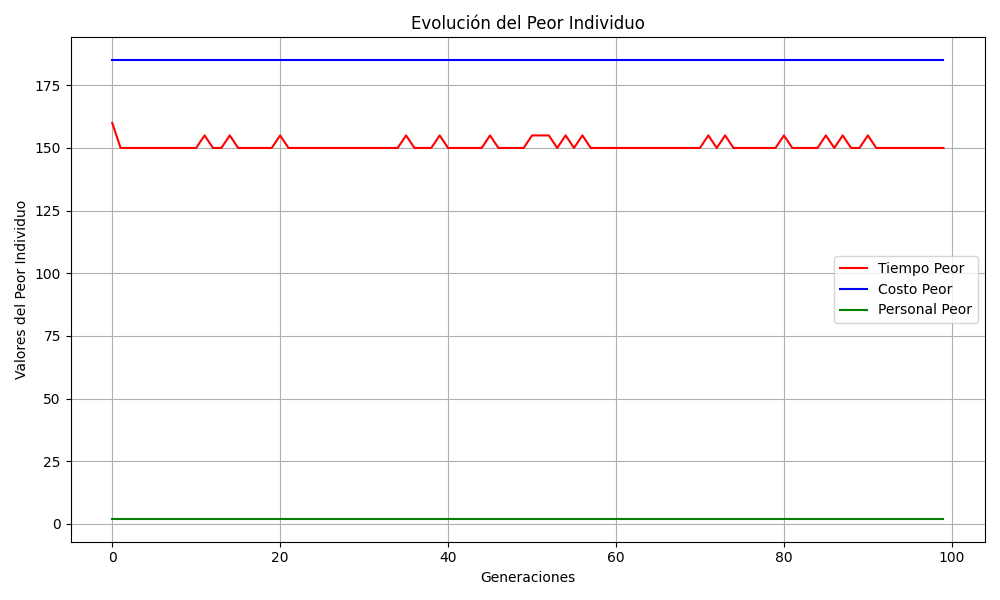
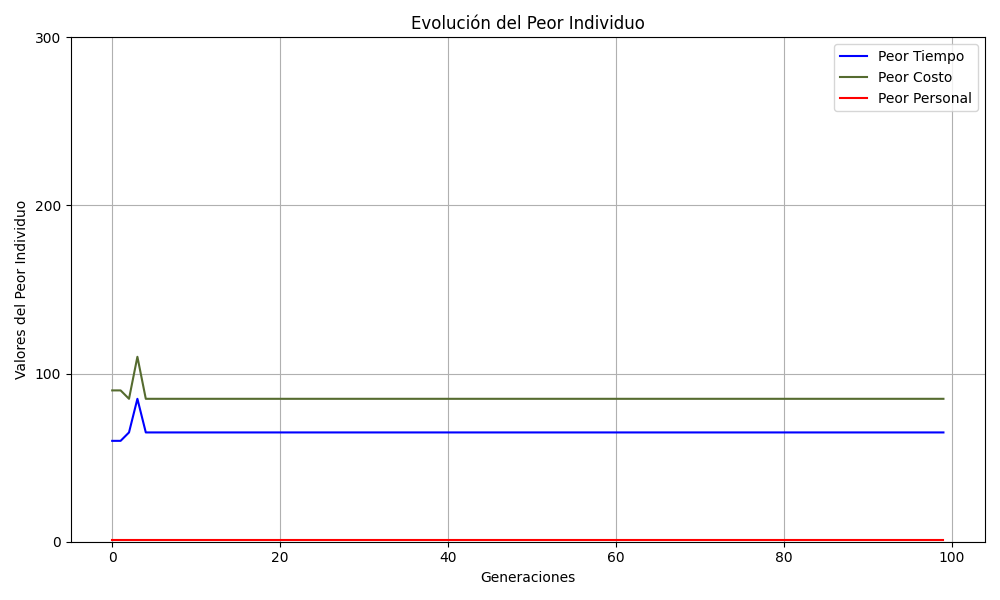
[FIX] the frontend with de graphics

diff --git a/templates/index.html b/templates/index.html
@@ -91,13 +91,19 @@
             </tbody>
         </table>
 
-        <div>
-            <h2 class="thCenter">Evolución del Tiempo</h2>
-            <img id="grafica_tiempos" src="" alt="Gráfica de la Evolución del Tiempo">
-        </div>
-        <div>
-            <h2 class="thCenter">Evolución del Costo</h2>
-            <img id="grafica_costos" src="" alt="Gráfica de la Evolución del Costo">
+        <div class="graficas">
+            <div>
+                <h2 class="tituloGraficas">Evolución del peor empleado</h2>
+                <img id="grafica_peor_individuo" src="" alt="Gráfica del Peor Individuo">
+            </div>
+            <div>
+                <h2 class="tituloGraficas">Evolución de los empleados promedio</h2>
+                <img id="grafica_promedio" src="" alt="Gráfica del Promedio">
+            </div>
+            <div>
+                <h2 class="tituloGraficas">Evolución del mejor empleado</h2>
+                <img id="grafica_mejor_individuo" src="" alt="Gráfica del Mejor Individuo">
+            </div>
         </div>
     </div>
 
@@ -179,8 +185,9 @@
                 document.getElementById('costo_mejor').textContent = data.solucion_mejor.costo_total;
                 document.getElementById('satisfactorio_mejor').textContent = data.solucion_mejor.satisfactorio;
 
-                document.getElementById('grafica_tiempos').src = data.grafica_tiempos_path;
-                document.getElementById('grafica_costos').src = data.grafica_costos_path;
+                document.getElementById('grafica_peor_individuo').src = data.grafica_peor_individuo_path;
+                document.getElementById('grafica_promedio').src = data.grafica_promedio_path;
+                document.getElementById('grafica_mejor_individuo').src = data.grafica_mejor_individuo_path;
             });
         });
     </script>

diff --git a/static/style.css b/static/style.css
@@ -258,3 +258,20 @@ th {
 .align-left {
   text-align: left;
 }
+
+.graficas {
+  display: flex;
+  justify-content: space-around;
+  margin-top: 20px;
+
+}
+.graficas img {
+  width: 100%;
+  height: auto;
+}
+
+.tituloGraficas{
+  text-align: center;
+  font-size: 2rem;
+  color: #cbc9c9;
+}

diff --git a/app.py b/app.py
@@ -72,6 +72,8 @@ def algoritmo_genetico(tamano_poblacion, actividades, generaciones, tasa_mutacio
     evolucion_tiempos = []
     evolucion_costos = []
     evolucion_peor = []
+    evolucion_promedio = []
+    evolucion_mejor = []
 
     for generacion in range(generaciones):
         padres = seleccionar_padres(poblacion)
@@ -88,6 +90,7 @@ def algoritmo_genetico(tamano_poblacion, actividades, generaciones, tasa_mutacio
         peor_individuo = max(poblacion, key=lambda x: x.aptitud)
         tiempo_promedio = sum(individuo.tiempo for individuo in poblacion) / len(poblacion)
         costo_promedio = sum(individuo.costo for individuo in poblacion) / len(poblacion)
+        personal_promedio = sum(individuo.personal for individuo in poblacion) / len(poblacion)
 
         evolucion_mejor_aptitud.append(mejor_individuo.aptitud)
         evolucion_tiempos.append((mejor_individuo.tiempo, tiempo_promedio, peor_individuo.tiempo))
@@ -99,7 +102,19 @@ def algoritmo_genetico(tamano_poblacion, actividades, generaciones, tasa_mutacio
             'personal': peor_individuo.personal
         })
 
-    return peor_individuo, mejor_individuo, evolucion_mejor_aptitud, evolucion_tiempos, evolucion_costos, evolucion_peor
+        evolucion_promedio.append({
+            'tiempo': tiempo_promedio,
+            'costo': costo_promedio,
+            'personal': personal_promedio
+        })
+
+        evolucion_mejor.append({
+            'tiempo': mejor_individuo.tiempo,
+            'costo': mejor_individuo.costo,
+            'personal': mejor_individuo.personal
+        })
+
+    return peor_individuo, mejor_individuo, evolucion_mejor_aptitud, evolucion_tiempos, evolucion_costos, evolucion_peor, evolucion_promedio, evolucion_mejor
 
 def calcular_datos(actividades, personal, peor=False):
     tiempo_total = sum([actividad['tiempo'] for actividad in actividades])
@@ -128,11 +143,11 @@ def index():
         
         actividades_usuario = [ACTIVIDADES_LIMPIEZA[int(index)] for index in actividades_seleccionadas]
 
-        peor_individuo, mejor_individuo, evolucion_mejor_aptitud, evolucion_tiempos, evolucion_costos, evolucion_peor = algoritmo_genetico(
+        peor_individuo, mejor_individuo, evolucion_mejor_aptitud, evolucion_tiempos, evolucion_costos, evolucion_peor, evolucion_promedio, evolucion_mejor = algoritmo_genetico(
             tamano_poblacion=20, 
             actividades=actividades_usuario, 
             generaciones=100, 
-            tasa_mutacion=0.01
+            tasa_mutacion=0.2
         )
 
         peor = calcular_datos(actividades_usuario, 1, peor=True)
@@ -141,29 +156,84 @@ def index():
 
         generaciones = list(range(100))
 
+        # Encontrar el valor máximo de tiempo o costo para establecer el límite de Y
+        max_tiempo = max(max(data['tiempo'] for data in evolucion_peor),
+                          max(data['tiempo'] for data in evolucion_promedio),
+                          max(data['tiempo'] for data in evolucion_mejor))
+        
+        max_costo = max(max(data['costo'] for data in evolucion_peor),
+                         max(data['costo'] for data in evolucion_promedio),
+                         max(data['costo'] for data in evolucion_mejor))
+
+        y_max = max(max_tiempo, max_costo) + 100  # Agregar un margin para mayor claridad
+
         # Gráfica de evolución del peor individuo
         tiempos_peor = [data['tiempo'] for data in evolucion_peor]
         costos_peor = [data['costo'] for data in evolucion_peor]
         personal_peor = [data['personal'] for data in evolucion_peor]
 
         plt.figure(figsize=(10, 6))
-        plt.plot(generaciones, tiempos_peor, label='Tiempo Peor', color='red')
-        plt.plot(generaciones, costos_peor, label='Costo Peor', color='blue')
-        plt.plot(generaciones, personal_peor, label='Personal Peor', color='green')
+        plt.plot(generaciones, tiempos_peor, label='Peor Tiempo', color='blue')
+        plt.plot(generaciones, costos_peor, label='Peor Costo', color='#556B2F')
+        plt.plot(generaciones, personal_peor, label='Peor Personal', color='red')
         plt.xlabel('Generaciones')
         plt.ylabel('Valores del Peor Individuo')
         plt.title('Evolución del Peor Individuo')
+        plt.ylim(0, y_max)
+        plt.yticks(range(0, y_max + 100, 100))
         plt.legend()
         plt.grid(True)
         plt.tight_layout()
         plt.savefig('static/grafica_peor_individuo.png')
         plt.close()
 
+        # Gráfica de evolución del promedio
+        tiempos_promedio = [data['tiempo'] for data in evolucion_promedio]
+        costos_promedio = [data['costo'] for data in evolucion_promedio]
+        personal_promedio = [data['personal'] for data in evolucion_promedio]
+
+        plt.figure(figsize=(10, 6))
+        plt.plot(generaciones, tiempos_promedio, label='Promedio Tiempo', color='blue')
+        plt.plot(generaciones, costos_promedio, label='Promedio Costo', color='#556B2F')
+        plt.plot(generaciones, personal_promedio, label='Promedio Personal', color='gray')
+        plt.xlabel('Generaciones')
+        plt.ylabel('Valores Promedio')
+        plt.title('Evolución del Promedio')
+        plt.ylim(0, y_max)
+        plt.yticks(range(0, y_max + 100, 100))
+        plt.legend()
+        plt.grid(True)
+        plt.tight_layout()
+        plt.savefig('static/grafica_promedio.png')
+        plt.close()
+
+        # Gráfica de evolución del mejor individuo
+        tiempos_mejor = [data['tiempo'] for data in evolucion_mejor]
+        costos_mejor = [data['costo'] for data in evolucion_mejor]
+        personal_mejor = [data['personal'] for data in evolucion_mejor]
+
+        plt.figure(figsize=(10, 6))
+        plt.plot(generaciones, tiempos_mejor, label='Mejor Tiempo', color='blue')
+        plt.plot(generaciones, costos_mejor, label='Mejor Costo', color='#556B2F')
+        plt.plot(generaciones, personal_mejor, label='Mejor Personal', color='green')
+        plt.xlabel('Generaciones')
+        plt.ylabel('Valores del Mejor Individuo')
+        plt.title('Evolución del Mejor Individuo')
+        plt.ylim(0, y_max)
+        plt.yticks(range(0, y_max + 100, 100))
+        plt.legend()
+        plt.grid(True)
+        plt.tight_layout()
+        plt.savefig('static/grafica_mejor_individuo.png')
+        plt.close()
+
         return jsonify({
             'solucion_un_empleado': peor,
             'solucion_intermedia': intermedio,
             'solucion_mejor': mejor,
-            'grafica_peor_individuo_path': url_for('static', filename='grafica_peor_individuo.png')
+            'grafica_peor_individuo_path': url_for('static', filename='grafica_peor_individuo.png'),
+            'grafica_promedio_path': url_for('static', filename='grafica_promedio.png'),
+            'grafica_mejor_individuo_path': url_for('static', filename='grafica_mejor_individuo.png')
         })
 
     return render_template('index.html', actividades=ACTIVIDADES_LIMPIEZA)
